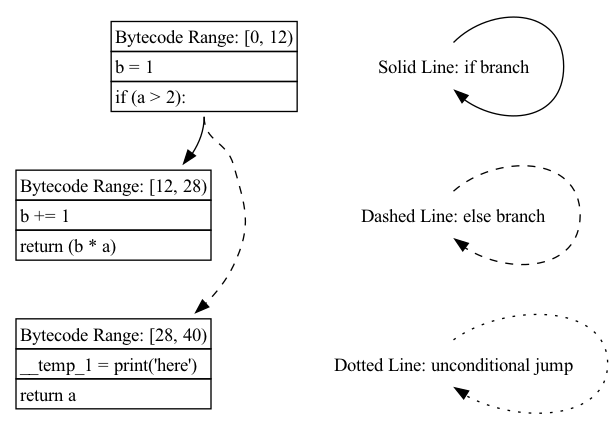
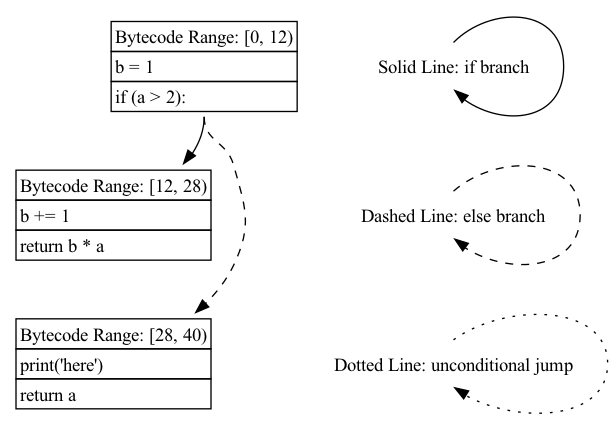
remove temp for each block code

Changed region(s): [[0.031, 0.8163, 0.3409, 0.8767], [0.093, 0.5442, 0.186, 0.6047]]

diff --git a/depyf/decompiler.py b/depyf/decompiler.py
@@ -71,6 +71,16 @@ class Decompiler:
 
     def visualize_cfg(self, filepath: str="cfg.png"):
         self.decompile()
+        for block in self.blocks:
+            lines = [x for x in block.decompiled_code.splitlines()]
+            if ("if" in lines[-1] or "for" in lines[-1]) and lines[-1].endswith(":"):
+                valid_lines = lines[:-1]
+                valid_code = "".join([x + "\n" for x in valid_lines])
+                simplified_code = remove_some_temp(valid_code, self.temp_prefix)
+                block.decompiled_code = simplified_code + lines[-1] + "\n"
+            else:
+                block.decompiled_code = remove_some_temp(block.decompiled_code, self.temp_prefix)
+
         BasicBlock.to_graph(self.blocks, filepath=filepath)
 
     def get_indentation_block(self, starting_block: BasicBlock) -> IndentationBlock:
